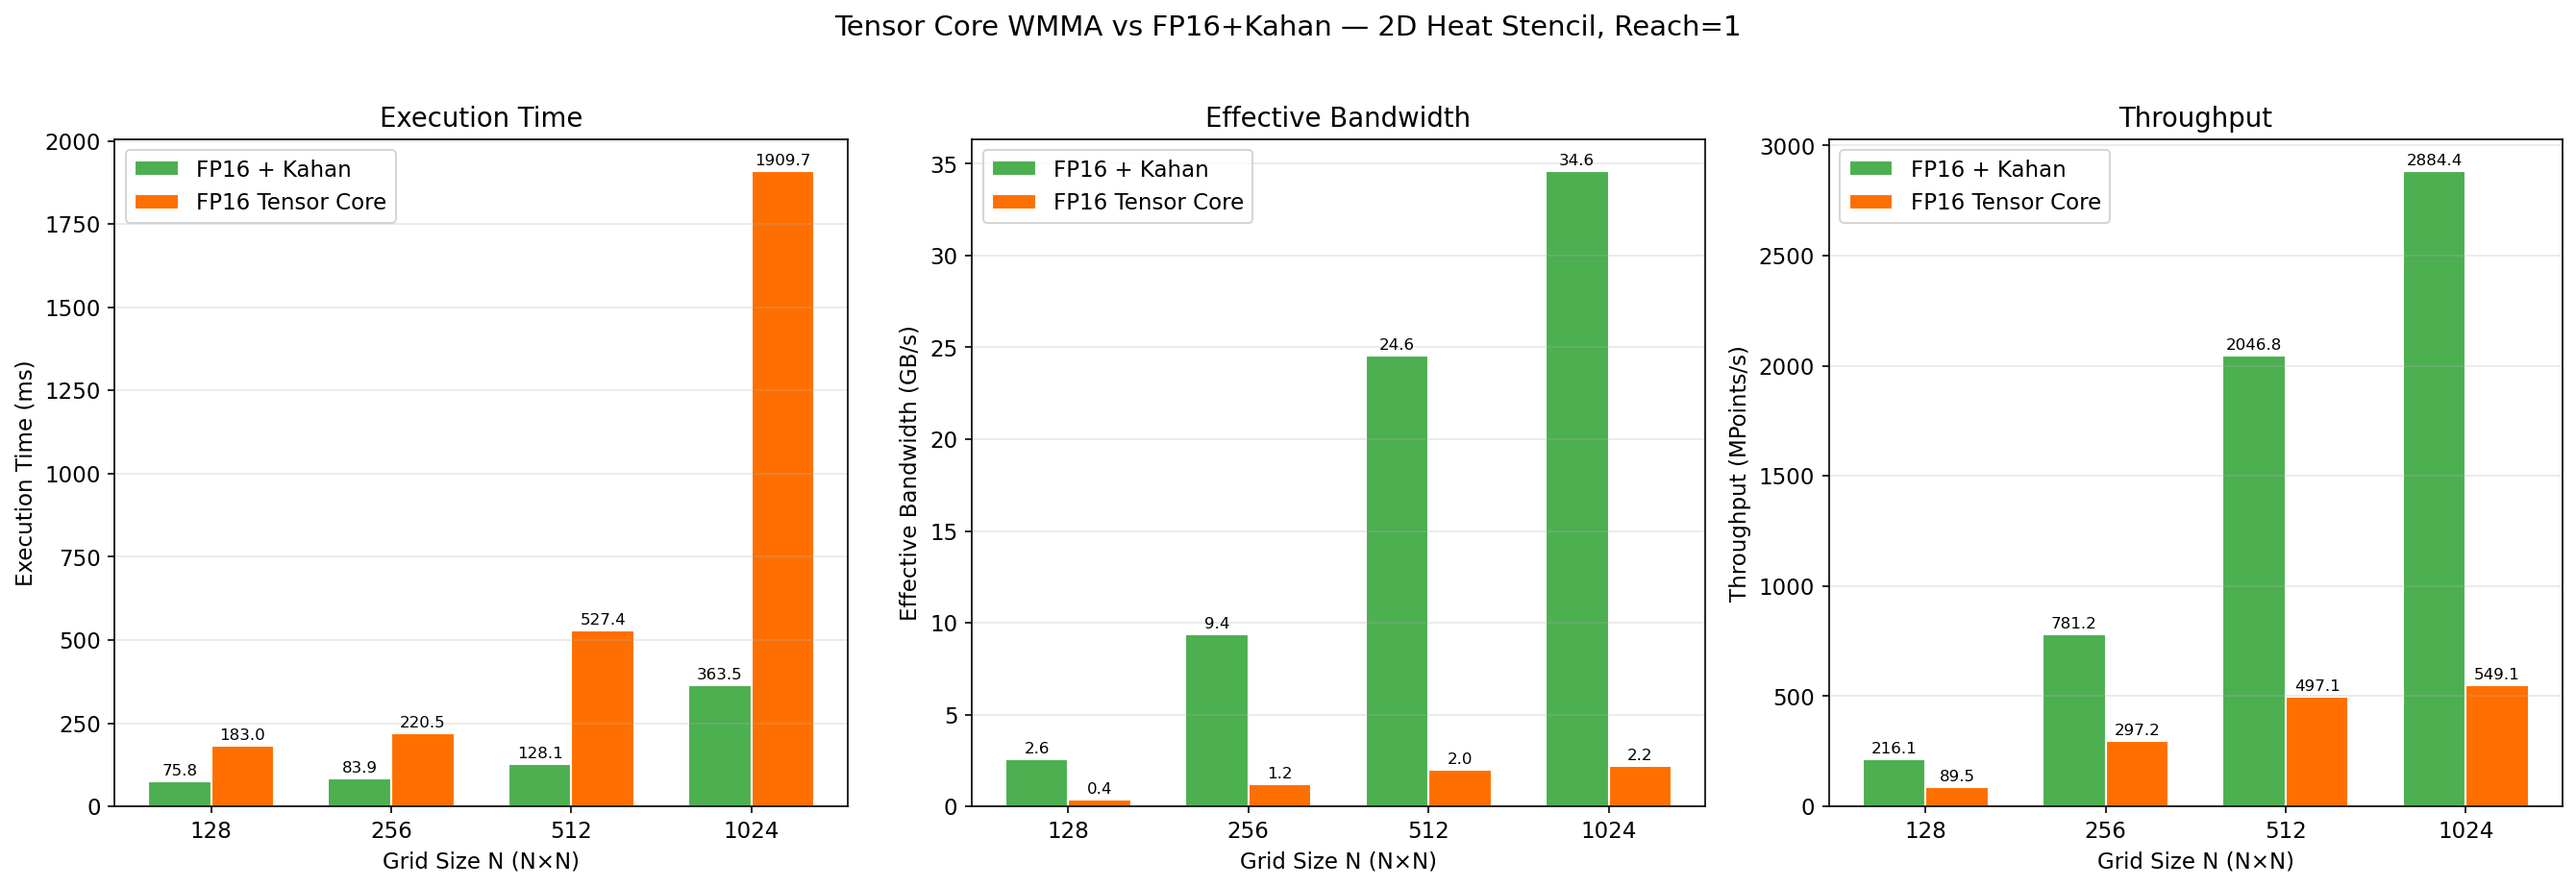
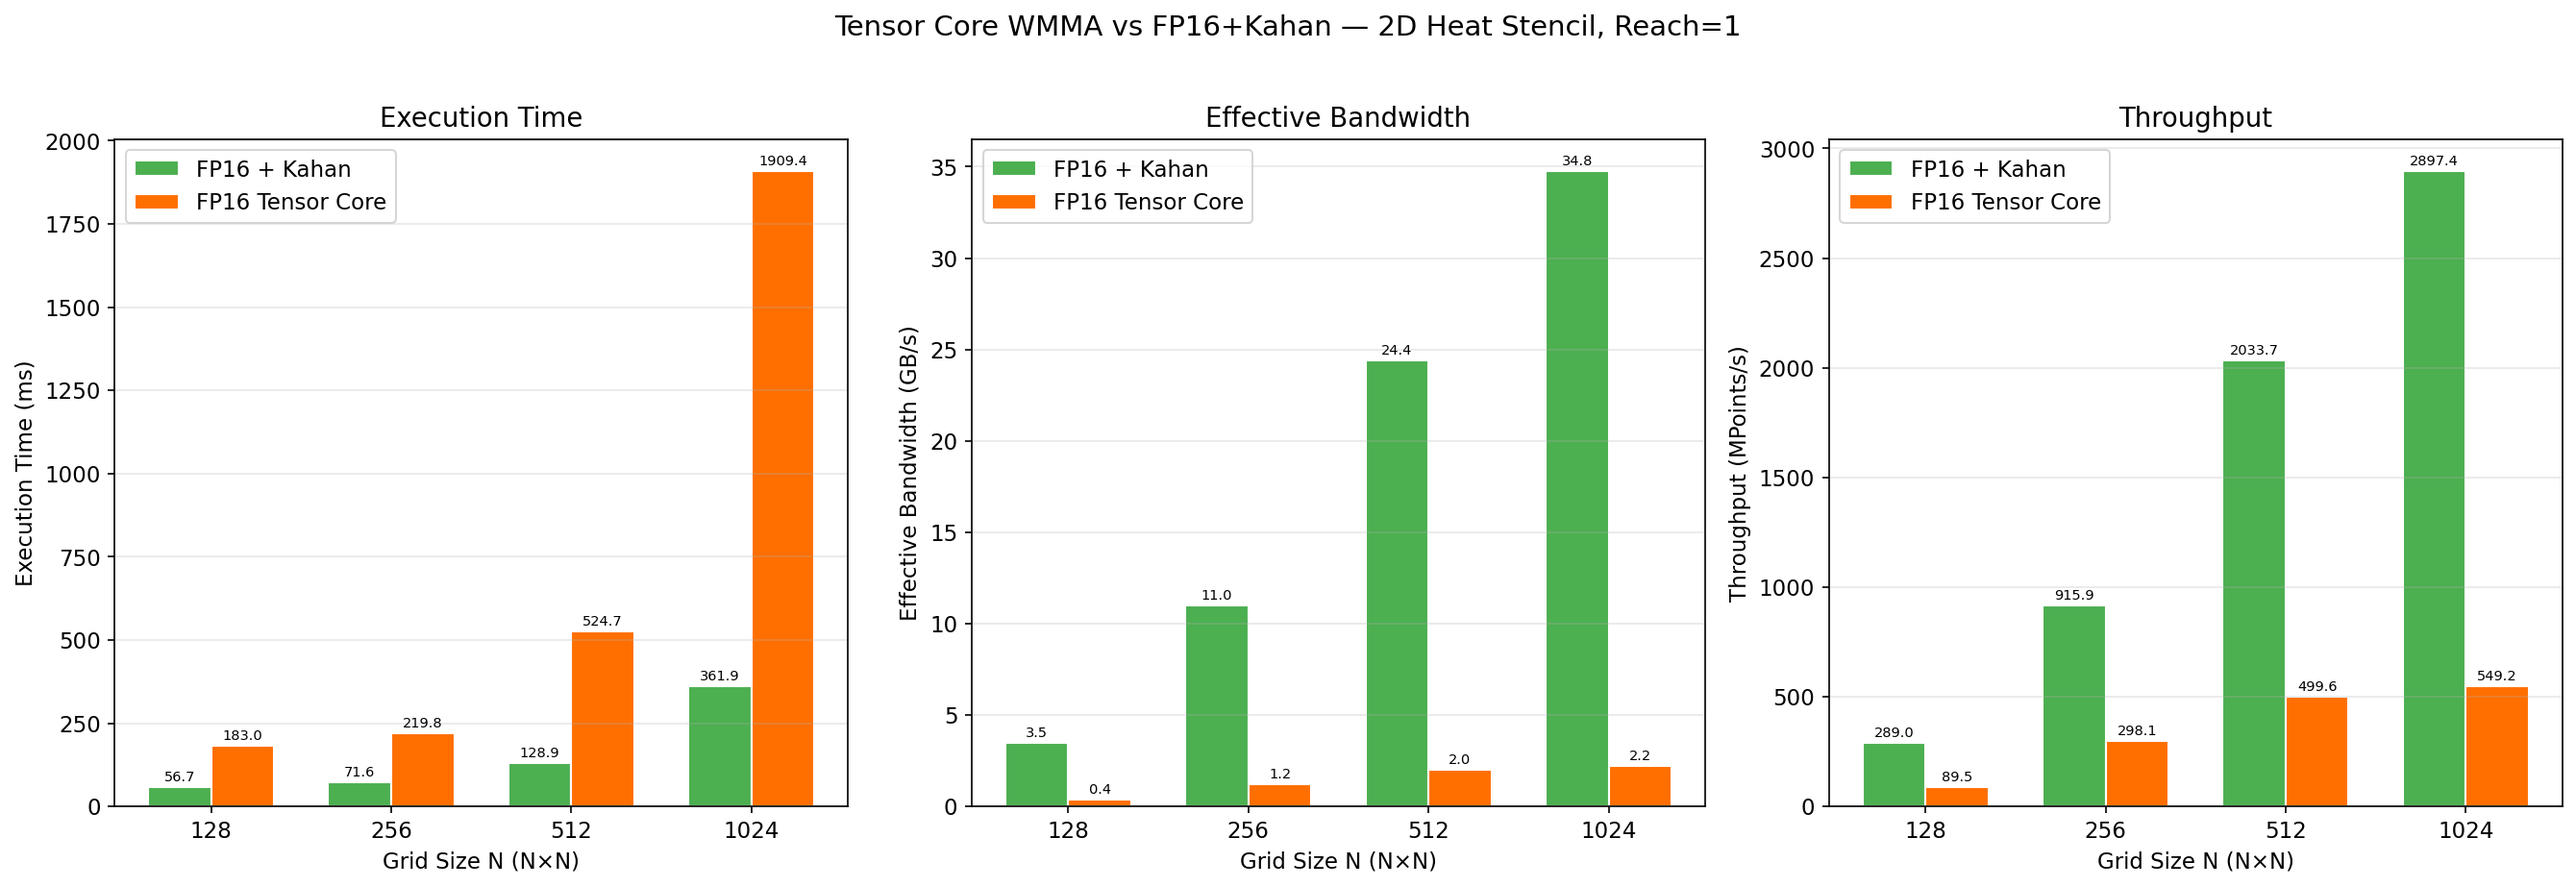
added accuracy comprasion for tensor cores

diff --git a/cuda-heat-equation/scripts/plot_tensor_vs_kahan.py b/cuda-heat-equation/scripts/plot_tensor_vs_kahan.py
@@ -1,21 +1,27 @@
 #!/usr/bin/env python3
 """
-plot_tensor_vs_kahan.py — Compare Tensor Core (WMMA) vs FP16+Kahan stencil.
+plot_tensor_vs_kahan.py — Compare all 2D stencil variants.
 
-Reads the CSV produced by the heat_stencil benchmark and generates grouped
-bar charts for:
-  1. Execution Time (ms)
-  2. Effective Bandwidth (GB/s)
+Reads the CSV produced by the heat_stencil benchmark and generates:
+  Figure 1 (tensor_vs_kahan.png):  Performance — 3 subplots
+    1. Execution Time (ms)
+    2. Effective Bandwidth (GB/s)
+    3. Throughput (MPoints/s)
+
+  Figure 2 (accuracy_comparison.png): Accuracy — 2 subplots
+    1. Max Absolute Error (log scale)
+    2. Relative L2 Error (log scale)
+    comparing ALL GPU variants (fp32, fp16_naive, fp16_kahan, fp16_tensor_core)
 
 Usage:
-    python3 plot_tensor_vs_kahan.py [csv_path] [output_path]
+    python3 plot_tensor_vs_kahan.py [csv_path]
 
 Defaults:
-    csv_path    = ../results/benchmarks.csv
-    output_path = ../results/tensor_vs_kahan.png
+    csv_path = ../results/benchmarks.csv
 """
 
 import sys
+import os
 import pandas as pd
 import matplotlib.pyplot as plt
 import matplotlib
@@ -24,47 +30,20 @@ import numpy as np
 matplotlib.rcParams['figure.dpi'] = 150
 matplotlib.rcParams['font.size'] = 11
 
-def main():
-    csv_path    = sys.argv[1] if len(sys.argv) > 1 else '../results/benchmarks.csv'
-    output_path = sys.argv[2] if len(sys.argv) > 2 else '../results/tensor_vs_kahan.png'
 
-    # ---- load data -----------------------------------------------------------
-    df = pd.read_csv(csv_path)
+def annotate_bars(ax, bars, fmt='.1f'):
+    """Place value labels on top of bar chart bars."""
+    for bar in bars:
+        h = bar.get_height()
+        if h > 0:
+            ax.annotate(f'{h:{fmt}}',
+                        xy=(bar.get_x() + bar.get_width() / 2, h),
+                        xytext=(0, 3), textcoords='offset points',
+                        ha='center', fontsize=7)
 
-    # normalise column names (strip whitespace if any)
-    df.columns = df.columns.str.strip()
 
-    # filter to 2D and the two variants of interest
-    variants = ['cuda_fp16_kahan', 'cuda_fp16_tensor_core']
-    mask = df['variant'].isin(variants)
-    if 'dim' in df.columns:
-        mask &= (df['dim'] == 2)
-    df = df[mask].copy()
-
-    if df.empty:
-        print(f"No data found for variants {variants} in {csv_path}")
-        print("Available variants:", df['variant'].unique() if not df.empty else "(empty)")
-        sys.exit(1)
-
-    # keep only the latest run per (variant, grid_size, reach) group
-    if 'reach' in df.columns:
-        group_cols = ['variant', 'grid_size', 'reach']
-    else:
-        group_cols = ['variant', 'grid_size']
-    df = df.sort_values('timestamp').groupby(group_cols).last().reset_index()
-
-    # ---- pivot by grid size --------------------------------------------------
-    kahan_data  = df[df['variant'] == 'cuda_fp16_kahan'].set_index('grid_size')
-    tensor_data = df[df['variant'] == 'cuda_fp16_tensor_core'].set_index('grid_size')
-
-    # align to common grid sizes
-    common = sorted(set(kahan_data.index) & set(tensor_data.index))
-    if not common:
-        print("No common grid sizes found between the two variants.")
-        print(f"  Kahan sizes:  {sorted(kahan_data.index.tolist())}")
-        print(f"  Tensor sizes: {sorted(tensor_data.index.tolist())}")
-        sys.exit(1)
-
+def plot_performance(df, common, kahan_data, tensor_data, reach_str, output_dir):
+    """Generate the 3-panel performance comparison (Kahan vs Tensor Core)."""
     kahan_time  = [kahan_data.loc[s, 'elapsed_ms']          for s in common]
     tensor_time = [tensor_data.loc[s, 'elapsed_ms']         for s in common]
     kahan_bw    = [kahan_data.loc[s, 'bandwidth_gbs']        for s in common]
@@ -72,75 +51,167 @@ def main():
     kahan_mpts  = [kahan_data.loc[s, 'megapoints_per_sec']   for s in common]
     tensor_mpts = [tensor_data.loc[s, 'megapoints_per_sec']  for s in common]
 
-    # ---- colours -------------------------------------------------------------
     c_kahan  = '#4CAF50'
     c_tensor = '#FF6F00'
-
     x = np.arange(len(common))
     width = 0.35
 
-    # ---- helper: annotate bars -----------------------------------------------
-    def annotate_bars(ax, bars, fmt='.1f'):
-        for bar in bars:
-            ax.annotate(f'{bar.get_height():{fmt}}',
-                        xy=(bar.get_x() + bar.get_width() / 2, bar.get_height()),
-                        xytext=(0, 3), textcoords='offset points',
-                        ha='center', fontsize=8)
-
-    # ---- figure: three subplots ----------------------------------------------
     fig, (ax1, ax2, ax3) = plt.subplots(1, 3, figsize=(18, 6))
 
-    # -- subplot 1: execution time --
-    bars1 = ax1.bar(x - width/2, kahan_time,  width, label='FP16 + Kahan',      color=c_kahan,  edgecolor='white')
-    bars2 = ax1.bar(x + width/2, tensor_time, width, label='FP16 Tensor Core',  color=c_tensor, edgecolor='white')
+    # -- execution time --
+    b1 = ax1.bar(x - width/2, kahan_time,  width, label='FP16 + Kahan',     color=c_kahan,  edgecolor='white')
+    b2 = ax1.bar(x + width/2, tensor_time, width, label='FP16 Tensor Core', color=c_tensor, edgecolor='white')
     ax1.set_xlabel('Grid Size N (N×N)')
     ax1.set_ylabel('Execution Time (ms)')
     ax1.set_title('Execution Time')
-    ax1.set_xticks(x)
-    ax1.set_xticklabels([str(s) for s in common])
-    ax1.legend()
-    ax1.grid(axis='y', alpha=0.3)
-    annotate_bars(ax1, bars1)
-    annotate_bars(ax1, bars2)
+    ax1.set_xticks(x); ax1.set_xticklabels([str(s) for s in common])
+    ax1.legend(); ax1.grid(axis='y', alpha=0.3)
+    annotate_bars(ax1, b1); annotate_bars(ax1, b2)
 
-    # -- subplot 2: effective bandwidth --
-    bars3 = ax2.bar(x - width/2, kahan_bw,  width, label='FP16 + Kahan',      color=c_kahan,  edgecolor='white')
-    bars4 = ax2.bar(x + width/2, tensor_bw, width, label='FP16 Tensor Core',  color=c_tensor, edgecolor='white')
+    # -- bandwidth --
+    b3 = ax2.bar(x - width/2, kahan_bw,  width, label='FP16 + Kahan',     color=c_kahan,  edgecolor='white')
+    b4 = ax2.bar(x + width/2, tensor_bw, width, label='FP16 Tensor Core', color=c_tensor, edgecolor='white')
     ax2.set_xlabel('Grid Size N (N×N)')
     ax2.set_ylabel('Effective Bandwidth (GB/s)')
     ax2.set_title('Effective Bandwidth')
-    ax2.set_xticks(x)
-    ax2.set_xticklabels([str(s) for s in common])
-    ax2.legend()
-    ax2.grid(axis='y', alpha=0.3)
-    annotate_bars(ax2, bars3)
-    annotate_bars(ax2, bars4)
+    ax2.set_xticks(x); ax2.set_xticklabels([str(s) for s in common])
+    ax2.legend(); ax2.grid(axis='y', alpha=0.3)
+    annotate_bars(ax2, b3); annotate_bars(ax2, b4)
 
-    # -- subplot 3: megapoints per second --
-    bars5 = ax3.bar(x - width/2, kahan_mpts,  width, label='FP16 + Kahan',      color=c_kahan,  edgecolor='white')
-    bars6 = ax3.bar(x + width/2, tensor_mpts, width, label='FP16 Tensor Core',  color=c_tensor, edgecolor='white')
+    # -- throughput --
+    b5 = ax3.bar(x - width/2, kahan_mpts,  width, label='FP16 + Kahan',     color=c_kahan,  edgecolor='white')
+    b6 = ax3.bar(x + width/2, tensor_mpts, width, label='FP16 Tensor Core', color=c_tensor, edgecolor='white')
     ax3.set_xlabel('Grid Size N (N×N)')
     ax3.set_ylabel('Throughput (MPoints/s)')
     ax3.set_title('Throughput')
-    ax3.set_xticks(x)
-    ax3.set_xticklabels([str(s) for s in common])
-    ax3.legend()
-    ax3.grid(axis='y', alpha=0.3)
-    annotate_bars(ax3, bars5)
-    annotate_bars(ax3, bars6)
-
-    # determine reach from data for the title
-    reach_str = ''
-    if 'reach' in df.columns:
-        reaches = df['reach'].unique()
-        reach_str = f', Reach={",".join(str(int(r)) for r in sorted(reaches))}'
+    ax3.set_xticks(x); ax3.set_xticklabels([str(s) for s in common])
+    ax3.legend(); ax3.grid(axis='y', alpha=0.3)
+    annotate_bars(ax3, b5); annotate_bars(ax3, b6)
 
     fig.suptitle(f'Tensor Core WMMA vs FP16+Kahan — 2D Heat Stencil{reach_str}',
                  fontsize=14, y=1.02)
     fig.tight_layout()
-    fig.savefig(output_path, bbox_inches='tight')
-    print(f'Saved {output_path}')
+    path = os.path.join(output_dir, 'tensor_vs_kahan.png')
+    fig.savefig(path, bbox_inches='tight')
+    print(f'Saved {path}')
+
+
+def plot_accuracy(df_all, output_dir, reach_str):
+    """Generate accuracy comparison across ALL GPU variants."""
+
+    # variants we want to compare (order matters for legend)
+    variant_meta = {
+        'cuda_fp32':               ('FP32',              '#2196F3', 'o'),
+        'cuda_fp16_naive':         ('FP16 Naive',        '#FF9800', '^'),
+        'cuda_fp16_kahan':         ('FP16 + Kahan',      '#4CAF50', 'D'),
+        'cuda_fp16_tensor_core':   ('FP16 Tensor Core',  '#FF6F00', 's'),
+    }
+
+    # filter to 2D GPU variants
+    mask = df_all['variant'].isin(variant_meta.keys())
+    if 'dim' in df_all.columns:
+        mask &= (df_all['dim'] == 2)
+    df = df_all[mask].copy()
+
+    if df.empty:
+        print("No GPU variant data found for accuracy plot, skipping.")
+        return
+
+    # keep latest run per (variant, grid_size)
+    if 'reach' in df.columns:
+        group_cols = ['variant', 'grid_size', 'reach']
+    else:
+        group_cols = ['variant', 'grid_size']
+    df = df.sort_values('timestamp').groupby(group_cols).last().reset_index()
+
+    sizes = sorted(df['grid_size'].unique())
+
+    fig, (ax1, ax2) = plt.subplots(1, 2, figsize=(14, 6))
+
+    for variant, (label, color, marker) in variant_meta.items():
+        vdf = df[df['variant'] == variant].set_index('grid_size')
+        common_sizes = sorted(set(sizes) & set(vdf.index))
+        if not common_sizes:
+            continue
+
+        max_err = [float(vdf.loc[s, 'max_abs_error']) for s in common_sizes]
+        l2_err  = [float(vdf.loc[s, 'l2_error'])      for s in common_sizes]
+
+        # replace exact zeros with tiny value for log scale
+        max_err = [v if v > 0 else 1e-16 for v in max_err]
+        l2_err  = [v if v > 0 else 1e-16 for v in l2_err]
+
+        ax1.semilogy(common_sizes, max_err, color=color, marker=marker,
+                     markersize=7, linewidth=2, label=label)
+        ax2.semilogy(common_sizes, l2_err, color=color, marker=marker,
+                     markersize=7, linewidth=2, label=label)
+
+    ax1.set_xlabel('Grid Size N (N×N)')
+    ax1.set_ylabel('Max Absolute Error (log scale)')
+    ax1.set_title('Max Absolute Error vs CPU FP64 Reference')
+    ax1.legend(loc='best', framealpha=0.9)
+    ax1.grid(True, alpha=0.3, which='both')
+    ax1.set_xticks(sizes)
+
+    ax2.set_xlabel('Grid Size N (N×N)')
+    ax2.set_ylabel('Relative L2 Error (log scale)')
+    ax2.set_title('Relative L2 Error vs CPU FP64 Reference')
+    ax2.legend(loc='best', framealpha=0.9)
+    ax2.grid(True, alpha=0.3, which='both')
+    ax2.set_xticks(sizes)
+
+    fig.suptitle(f'Accuracy Comparison — 2D Heat Stencil{reach_str}',
+                 fontsize=14, y=1.02)
+    fig.tight_layout()
+    path = os.path.join(output_dir, 'accuracy_comparison.png')
+    fig.savefig(path, bbox_inches='tight')
+    print(f'Saved {path}')
+
+
+def main():
+    csv_path = sys.argv[1] if len(sys.argv) > 1 else '../results/benchmarks.csv'
+    output_dir = os.path.dirname(csv_path) or '.'
+
+    # ---- load data -----------------------------------------------------------
+    df = pd.read_csv(csv_path)
+    df.columns = df.columns.str.strip()
+
+    # ---- determine reach for title -------------------------------------------
+    reach_str = ''
+    if 'reach' in df.columns:
+        gpu_df = df[df['variant'].str.startswith('cuda')]
+        if not gpu_df.empty:
+            reaches = gpu_df['reach'].dropna().unique()
+            reach_str = f', Reach={",".join(str(int(r)) for r in sorted(reaches))}'
+
+    # ---- performance plot (Kahan vs Tensor Core) -----------------------------
+    perf_variants = ['cuda_fp16_kahan', 'cuda_fp16_tensor_core']
+    perf_mask = df['variant'].isin(perf_variants)
+    if 'dim' in df.columns:
+        perf_mask &= (df['dim'] == 2)
+    perf_df = df[perf_mask].copy()
+
+    if not perf_df.empty:
+        if 'reach' in perf_df.columns:
+            group_cols = ['variant', 'grid_size', 'reach']
+        else:
+            group_cols = ['variant', 'grid_size']
+        perf_df = perf_df.sort_values('timestamp').groupby(group_cols).last().reset_index()
+
+        kahan_data  = perf_df[perf_df['variant'] == 'cuda_fp16_kahan'].set_index('grid_size')
+        tensor_data = perf_df[perf_df['variant'] == 'cuda_fp16_tensor_core'].set_index('grid_size')
+        common = sorted(set(kahan_data.index) & set(tensor_data.index))
+
+        if common:
+            plot_performance(perf_df, common, kahan_data, tensor_data, reach_str, output_dir)
+        else:
+            print("No common grid sizes for Kahan vs Tensor Core, skipping performance plot.")
+    else:
+        print("No Kahan/Tensor Core data found, skipping performance plot.")
+
+    # ---- accuracy plot (all GPU variants) ------------------------------------
+    plot_accuracy(df, output_dir, reach_str)
+
 
 if __name__ == '__main__':
     main()
-
